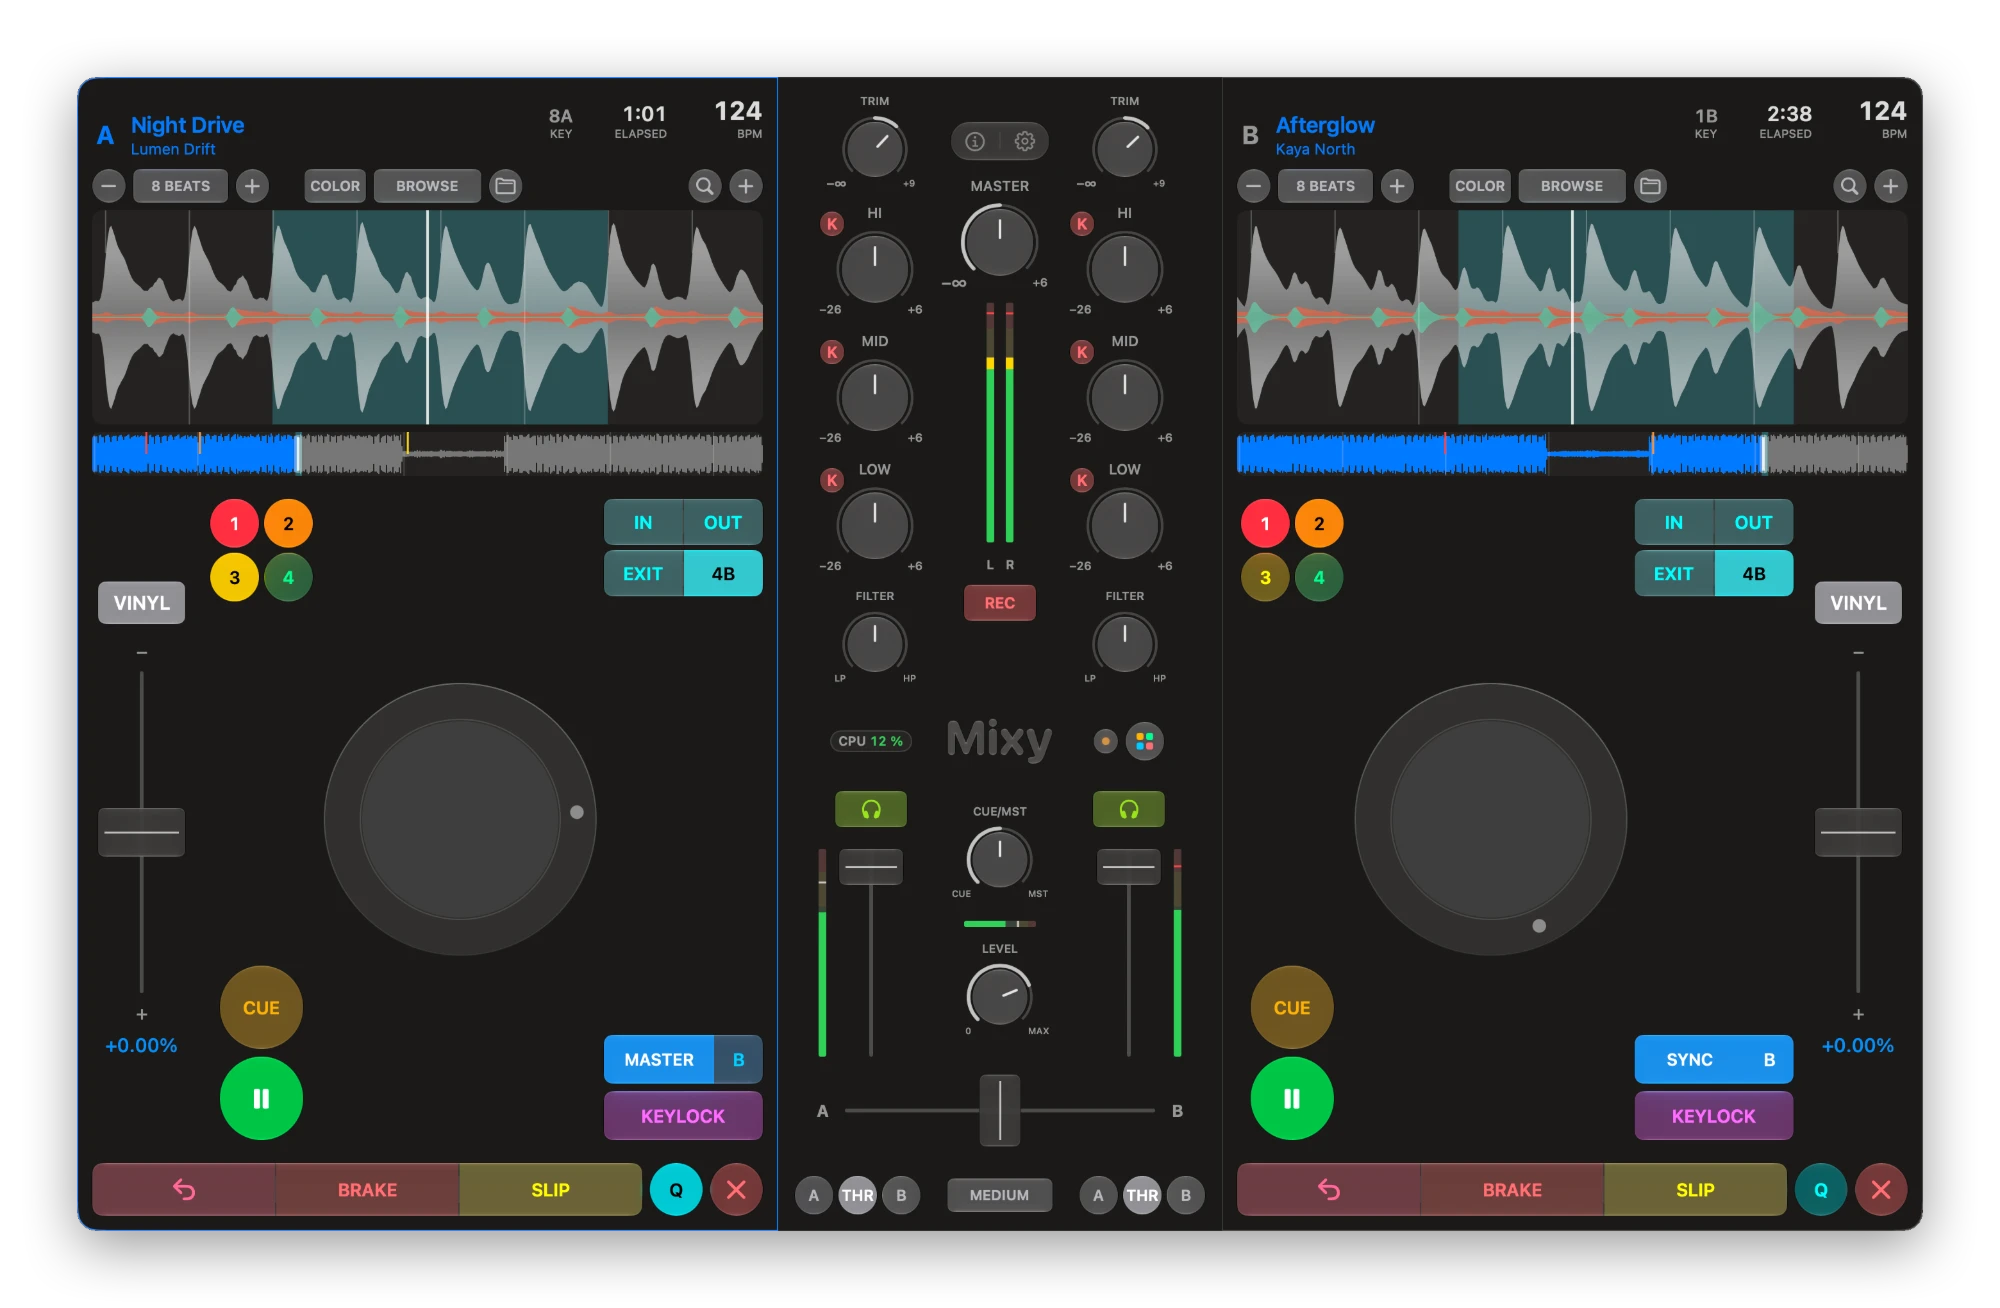
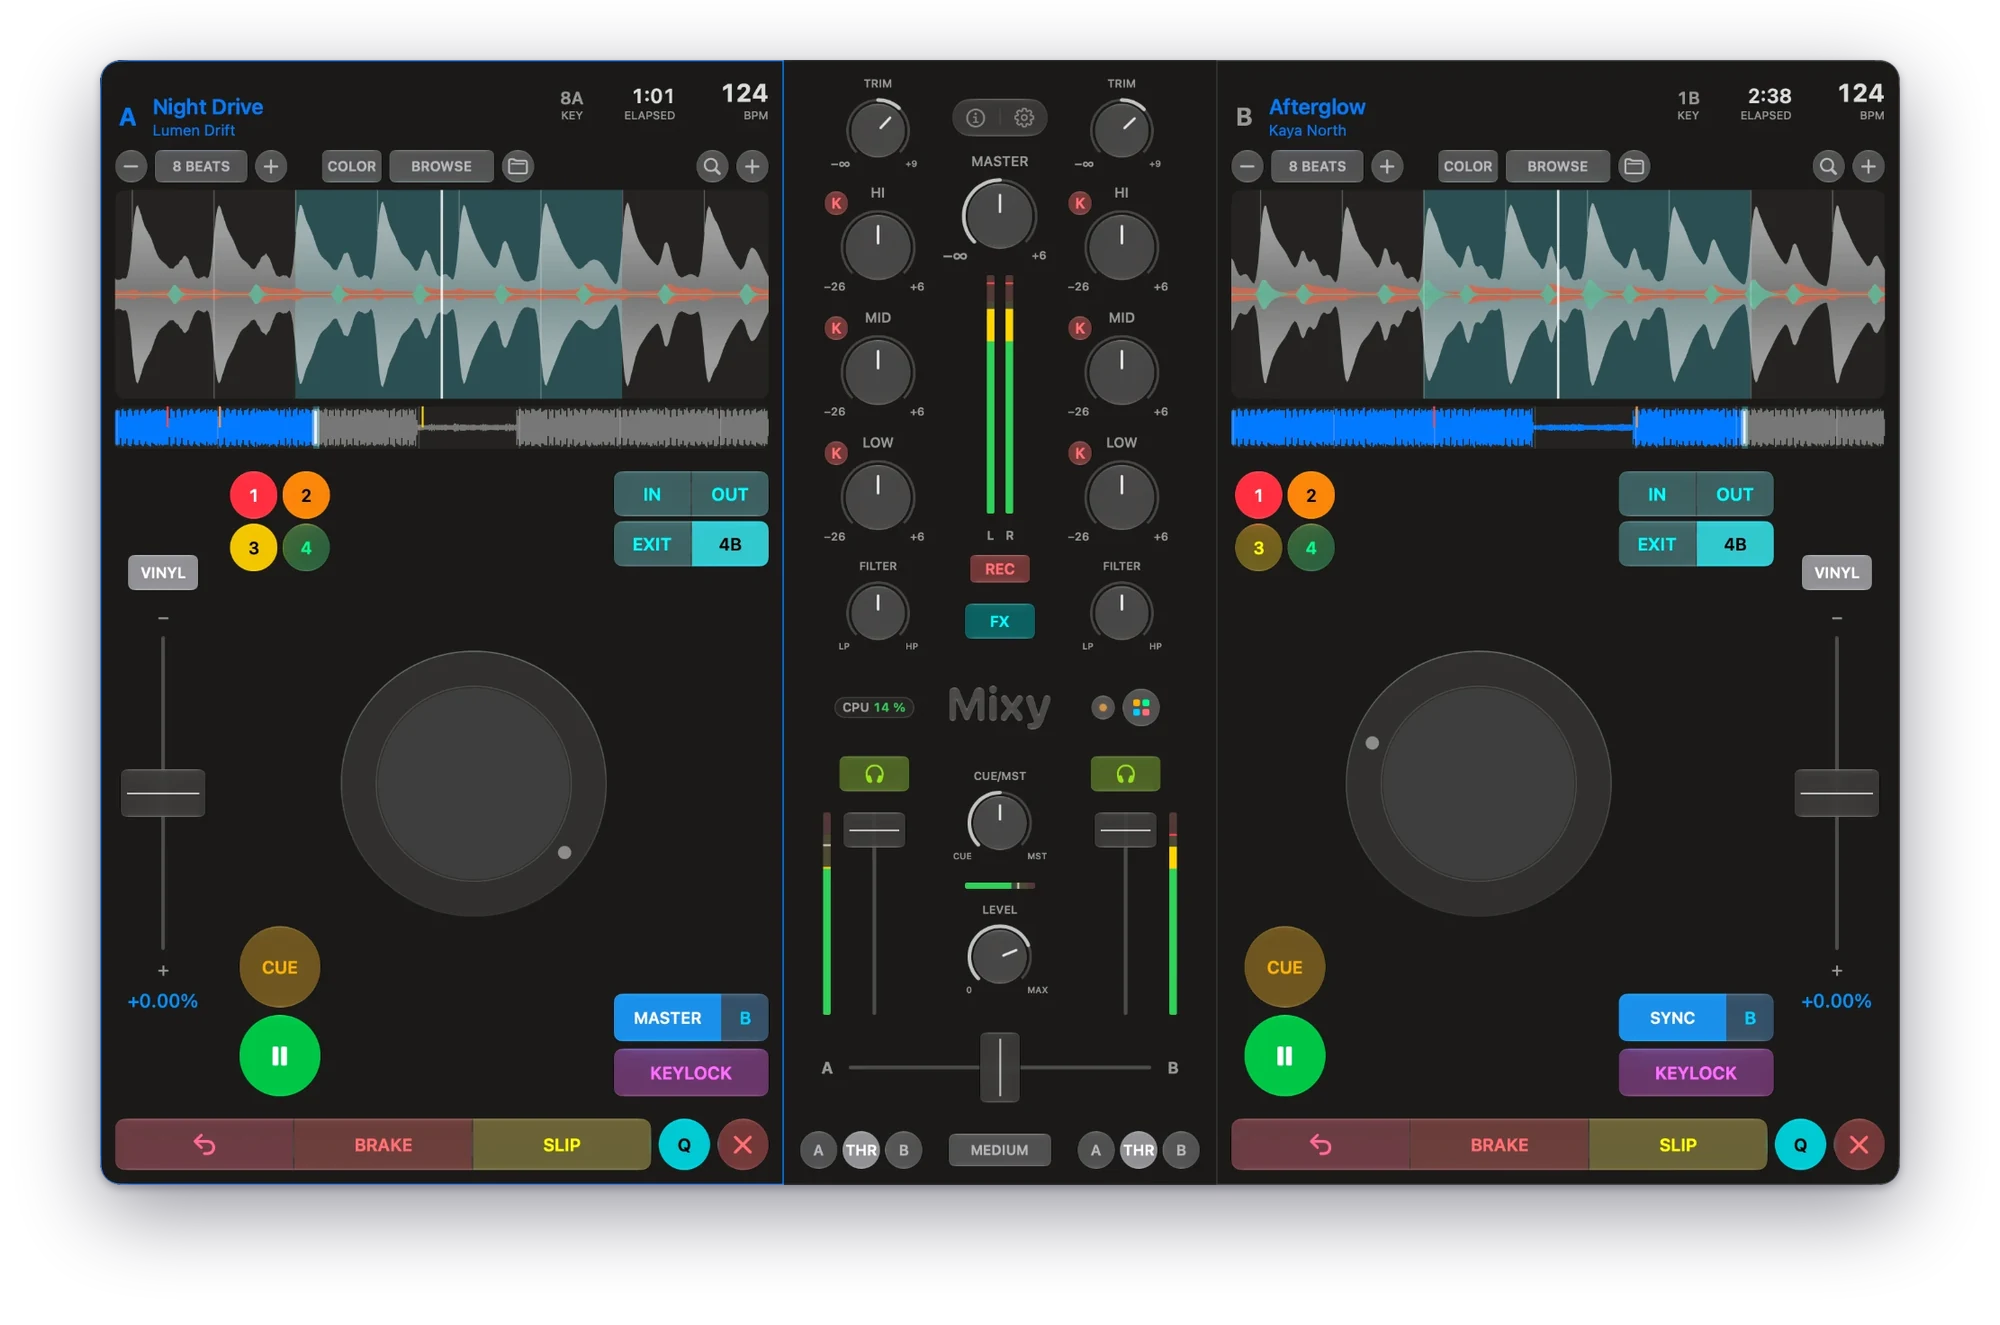
Mixy: new screenshots 1-9; FX effects, No Dip curve, Turntable layout, VINYL brake, recording before MASTER
Claude-Session: https://claude.ai/code/session_01KuEoozSMi7F77NgTPBECaD

diff --git a/more/mixy/index.html b/more/mixy/index.html
@@ -59,7 +59,8 @@
         },
         "featureList": [
             "Two CD-style decks with jog wheel, CUE and pitch fader",
-            "DJ mixer: Trim, 3-band EQ with kills, filter, crossfader, master limiter",
+            "DJ mixer: Trim, 3-band EQ with kills, filter, crossfader with Sharp, Medium and No Dip curves, master limiter",
+            "Mixer effects: Echo, Reverb and Crush on deck A, deck B or the whole mix",
             "Headphone cue on its own output",
             "Waveforms with beat grid, BPM and musical key",
             "Sync, Keylock, hot cues, loops, Slip, Reverse and Brake",
@@ -67,6 +68,7 @@
             "Mix recording to a WAV file and set history",
             "Auto Gain and preview in the headphones",
             "Two waveforms on top, one above the other",
+            "Turntable layout with spinning records",
             "Amber backlight for a dark club",
             "MIDI DJ controllers, with about 60 built-in mappings",
             "MP3, AAC, ALAC, FLAC, WAV, AIFF, CAF",
@@ -117,7 +119,7 @@
             <p class="cta-note">On the Mac App Store. Try every feature free for 14 days.</p>
             </div>
             <div class="hero-shot bare zoomable">
-                <img src="images/decks-dark.webp" width="2000" height="1308" alt="Mixy in Dark with both decks playing in color waveforms: deck A as master, deck B synced to it, and the mixer between them">
+                <img src="images/decks-dark.webp" width="2000" height="1325" alt="Mixy in Dark with both decks playing in color waveforms: deck A as master, deck B synced to it, and the mixer between them">
             </div>
         </div>
     </div>
@@ -139,7 +141,7 @@
                 <div class="card">
                     <div class="icon-badge blue"><svg viewBox="0 0 24 24" fill="none" stroke="currentColor" stroke-width="2" stroke-linecap="round" aria-hidden="true"><path d="M6 3v18M12 3v18M18 3v18"/><rect x="4" y="13" width="4" height="3" rx="1" fill="currentColor"/><rect x="10" y="6" width="4" height="3" rx="1" fill="currentColor"/><rect x="16" y="10" width="4" height="3" rx="1" fill="currentColor"/></svg></div>
                     <h3>The whole mixer</h3>
-                    <p>Trim, a 3-band EQ or isolator with kills, a filter, channel faders, the crossfader with three curves and a master with a limiter.</p>
+                    <p>Trim, a 3-band EQ or isolator with kills, a filter, channel faders and the crossfader with Sharp, Medium and No Dip curves. FX adds Echo, Reverb or Crush, in time with the beat.</p>
                 </div>
                 <div class="card">
                     <div class="icon-badge orange"><svg viewBox="0 0 24 24" fill="none" stroke="currentColor" stroke-width="2" stroke-linecap="round" stroke-linejoin="round" aria-hidden="true"><path d="M4 15v-3a8 8 0 0 1 16 0v3"/><rect x="3" y="14" width="4" height="7" rx="1.5"/><rect x="17" y="14" width="4" height="7" rx="1.5"/></svg></div>
@@ -154,7 +156,7 @@
                 <div class="card">
                     <div class="icon-badge red"><svg viewBox="0 0 24 24" fill="none" stroke="currentColor" stroke-width="2" aria-hidden="true"><circle cx="12" cy="12" r="9"/><circle cx="12" cy="12" r="4.5" fill="currentColor"/></svg></div>
                     <h3>Record your mix</h3>
-                    <p>Hold REC and Mixy records what your speakers play, to a WAV file. Set History keeps the tracks you played, to copy or export.</p>
+                    <p>Hold REC and Mixy records your mix to a WAV file, as it is before MASTER. Set History keeps the tracks you played, to copy or export.</p>
                 </div>
                 <div class="card">
                     <div class="icon-badge green"><svg viewBox="0 0 24 24" fill="none" stroke="currentColor" stroke-width="2" stroke-linejoin="round" aria-hidden="true"><path d="M12 3 5 6v6c0 4.5 3 7.5 7 9 4-1.5 7-4.5 7-9V6z"/></svg></div>
@@ -169,7 +171,7 @@
     <section>
         <div class="wrap">
             <div class="showcase reveal">
-                <div class="shot bare zoomable"><img src="images/decks-light.webp" width="2000" height="1308" loading="lazy" alt="Mixy in Light with the CD player layout: color waveforms with the beat grid and a 4-beat loop, big CUE and Play buttons beside the pads"></div>
+                <div class="shot bare zoomable"><img src="images/decks-light.webp" width="2000" height="1325" loading="lazy" alt="Mixy in Light with the CD player layout: color waveforms with the beat grid and a 4-beat loop, big CUE and Play buttons beside the pads"></div>
                 <div>
                     <span class="tag">Waveforms, BPM and Sync</span>
                     <h3>See the beat.</h3>
@@ -179,7 +181,7 @@
             </div>
 
             <div class="showcase flip reveal">
-                <div class="shot bare zoomable"><img src="images/browse.webp" width="2000" height="1308" loading="lazy" alt="Deck A shows its playlist with title, artist, BPM and time, deck B its waveform, both with the controller layout"></div>
+                <div class="shot bare zoomable"><img src="images/browse.webp" width="2000" height="1325" loading="lazy" alt="Deck A shows its playlist with title, artist, BPM and time, deck B its waveform, both with the controller layout"></div>
                 <div>
                     <span class="tag">Your music</span>
                     <h3>The playlist, right on the deck.</h3>
@@ -189,7 +191,7 @@
             </div>
 
             <div class="showcase reveal">
-                <div class="shot bare zoomable"><img src="images/waveforms.webp" width="2000" height="1346" loading="lazy" alt="The Two waveforms layout: deck A's waveform in blue over deck B's in purple across the top; deck A shows its music folders, deck B its playlist"></div>
+                <div class="shot bare zoomable"><img src="images/waveforms.webp" width="2000" height="1363" loading="lazy" alt="The Two waveforms layout: deck A's waveform in blue over deck B's in purple across the top; deck A shows its music folders, deck B its playlist"></div>
                 <div>
                     <span class="tag">Two waveforms</span>
                     <h3>Both tracks, one above the other.</h3>
@@ -199,28 +201,29 @@
             </div>
 
             <div class="showcase flip reveal">
-                <div class="shot bare zoomable"><img src="images/pads.webp" width="2000" height="1308" loading="lazy" alt="Mixy in Light with big jog wheels and the pads layout: hot cues and loops as big pads"></div>
+                <div class="shot bare zoomable"><img src="images/pads.webp" width="2000" height="1325" loading="lazy" alt="Mixy in Light with big jog wheels and the pads layout: hot cues and loops as big pads"></div>
                 <div>
                     <span class="tag">Button layouts</span>
                     <h3>Your layout, your jog wheel.</h3>
-                    <p>Nine button layouts: rows, two waveforms, CD player, controller, compact, club player, around the jog wheel, pads and classic. Drag the line between the screen and the jog wheel, and the jog wheel, its buttons and the pitch fader grow.</p>
+                    <p>Ten button layouts: rows, two waveforms, CD player, controller, compact, club player, around the jog wheel, pads, turntable and classic. Drag the line between the screen and the jog wheel, and the jog wheel, its buttons and the pitch fader grow.</p>
                     <p>Hot cues, loops (IN, OUT, EXIT, 4-beat), Quantize, Slip, Reverse and Brake, all one click away. On a controller you get 8 hot cues, beat jump and beat loop pads.</p>
                 </div>
             </div>
 
             <div class="showcase reveal">
-                <div class="shot bare zoomable"><img src="images/around-jog.webp" width="2000" height="1308" loading="lazy" alt="Mixy with the around the jog wheel layout: hot cues and loops above the jog wheel, CUE and Play below"></div>
+                <div class="shot bare zoomable"><img src="images/around-jog.webp" width="2000" height="1325" loading="lazy" alt="Mixy with the around the jog wheel layout: hot cues and loops above the jog wheel, CUE and Play below"></div>
                 <div>
                     <span class="tag">Hands on</span>
                     <h3>Your hands on the music.</h3>
-                    <p>With VINYL on, two fingers on the jog wheel scratch, or circle them to turn it like a record. In CD mode the top bends the tempo while playing. Swipe the waveform, flick it and it glides on.</p>
+                    <p>With VINYL on, the middle of the jog wheel is the record: scratch it, click to brake it, or press firmly to stop it. The outer ring bends the tempo, as the side of a CD deck's jog. In CD mode the whole jog wheel bends the tempo while playing and searches while paused. One turn is 1.8 seconds of music, as on club gear.</p>
+                    <p>Circle two fingers on the trackpad to turn the jog wheel. Swipe the waveform, flick it and it glides on.</p>
                     <p>Hold a key and scroll to turn a knob, from anywhere on the screen.</p>
-                    <p>Keyboard shortcuts for play, cue, hot cues, sync, loops and more, and the media keys play and pause the decks.</p>
+                    <p>Keyboard shortcuts for play, cue, hot cues, sync, loops and more: <kbd>V</kbd> switches VINYL, <kbd>Z</kbd> the effect. The media keys play and pause the decks.</p>
                 </div>
             </div>
 
             <div class="showcase flip reveal">
-                <div class="shot bare zoomable"><img src="images/backlight.webp" width="2000" height="1308" loading="lazy" alt="Mixy in Dark with the backlight on: knobs, faders, jog wheel rings, numbers and the Mixy logo lit in amber, with the club player layout"></div>
+                <div class="shot bare zoomable"><img src="images/backlight.webp" width="2000" height="1325" loading="lazy" alt="Mixy in Dark with the backlight on: knobs, faders, jog wheel rings, numbers and the Mixy logo lit in amber, with the club player layout"></div>
                 <div>
                     <span class="tag">Backlight</span>
                     <h3>Lit for a dark club.</h3>
@@ -230,7 +233,7 @@
             </div>
 
             <div class="showcase reveal">
-                <div class="shot bare zoomable"><img src="images/no-mixer.webp" width="2000" height="1346" loading="lazy" alt="Mixy with the mixer hidden: the two waveforms on top and the two decks side by side, for playing from a DJ controller"></div>
+                <div class="shot bare zoomable"><img src="images/no-mixer.webp" width="2000" height="1363" loading="lazy" alt="Mixy with the mixer hidden: the two waveforms on top and the two decks side by side, for playing from a DJ controller"></div>
                 <div>
                     <span class="tag">With a controller</span>
                     <h3>Your controller mixes, the screen shows.</h3>
@@ -240,12 +243,12 @@
             </div>
 
             <div class="showcase flip reveal">
-                <div class="shot bare zoomable"><img src="images/classic.webp" width="2000" height="1308" loading="lazy" alt="Mixy in Light without the upgrade: each deck with its playlist, the jog wheel, the pitch fader, big CUE and Play buttons and SEARCH"></div>
+                <div class="shot bare zoomable"><img src="images/classic.webp" width="2000" height="1325" loading="lazy" alt="Mixy in Light without the upgrade: each deck with its playlist, the jog wheel, the pitch fader, big CUE and Play buttons and SEARCH"></div>
                 <div>
                     <span class="tag">Mixy free</span>
                     <h3>Start like on a club CD player.</h3>
                     <p>Without the upgrade, each deck works like a classic club CD player: big CUE and Play buttons, SEARCH, the jog wheel, the pitch fader and the time, with the playlist above. The whole mixer, the headphones and your DJ controller work too.</p>
-                    <p>Fewer buttons, so beginners learn the basics first. With Mixy Upgrade, this classic layout stays as the last of the nine.</p>
+                    <p>Fewer buttons, so beginners learn the basics first. With Mixy Upgrade, this classic layout stays as the last of the ten.</p>
                 </div>
             </div>
         </div>
@@ -287,7 +290,7 @@
                     <p class="plan-sub">Free, like the classic club CD players</p>
                     <ul>
                         <li>Two decks: Play, CUE, SEARCH, the jog wheel in CD mode, the pitch fader and the time</li>
-                        <li>The whole mixer: Trim, 3-band EQ or isolator with kills, filter, channel faders, crossfader with three curves, master with a limiter</li>
+                        <li>The whole mixer: Trim, 3-band EQ or isolator with kills, filter, channel faders, crossfader with three curves (Sharp, Medium, No Dip), master with a limiter</li>
                         <li>Headphone cue on its own output</li>
                         <li>REC: record your mix to a WAV file</li>
                         <li>Set History: the tracks you played, to copy or export</li>
@@ -306,11 +309,12 @@
                         <li><strong>SYNC</strong> to the other deck's tempo, and <strong>Beats (B)</strong> to keep the beats together</li>
                         <li><strong>Keylock;</strong> pitch range ±6, 8, 10 or 16&nbsp;%</li>
                         <li><strong>Hot cues and loops:</strong> 4 hot cues on screen and 8 on a controller, IN, OUT, RELOOP / EXIT, 4-beat loop, Quantize, beat jump and beat loop pads</li>
+                        <li><strong>FX:</strong> Echo, Reverb or Crush on deck A, deck B or the whole mix, in time with the beat</li>
                         <li><strong>Slip, Reverse and Brake</strong></li>
-                        <li><strong>VINYL:</strong> scratch on the jog wheel's top</li>
+                        <li><strong>VINYL:</strong> scratch the record, click to brake it, press firmly to stop it</li>
                         <li><strong>Auto Gain:</strong> tracks play about equally loud</li>
                         <li><strong>Preview:</strong> hear a track in the headphones without loading it</li>
-                        <li><strong>Eight more button layouts,</strong> one with the two waveforms on top, that grow with the jog wheel</li>
+                        <li><strong>Nine more button layouts,</strong> with two waveforms on top or spinning records like a turntable, that grow with the jog wheel</li>
                     </ul>
                 </div>
             </div>
@@ -354,7 +358,7 @@
                 </details>
                 <details>
                     <summary>What does Mixy Upgrade include?</summary>
-                    <p>Big waveforms with the beat grid and the overview, BPM and musical key, Sync and Beats, Keylock and the pitch range, hot cues, loops and Quantize, Slip, Reverse and Brake, VINYL scratching, Auto Gain, preview in the headphones and eight more button layouts, one with the two waveforms on top.</p>
+                    <p>Big waveforms with the beat grid and the overview, BPM and musical key, Sync and Beats, Keylock and the pitch range, hot cues, loops and Quantize, Slip, Reverse and Brake, the FX effects, VINYL scratching, Auto Gain, preview in the headphones and nine more button layouts, among them two waveforms on top and a turntable.</p>
                     <p><a href="#upgrade">See Mixy and Mixy Upgrade side by side</a></p>
                 </details>
                 <details>
@@ -372,7 +376,7 @@
                 </details>
                 <details>
                     <summary>How do I record my mix?</summary>
-                    <p>Hold <strong>REC</strong> in the middle of the mixer for 1.5 seconds. Mixy records exactly what your speakers get, as a 24-bit WAV file in your Downloads folder. Hold REC again to stop, and the Finder shows the file.</p>
+                    <p>Hold <strong>REC</strong> in the middle of the mixer for 1.5 seconds. Mixy records the mix as it is before MASTER, so turning the room down doesn't change the recording. It goes to a 24-bit WAV file in your Downloads folder. Hold REC again to stop, and the Finder shows the file.</p>
                 </details>
                 <details>
                     <summary>Can I see which tracks I played?</summary>
